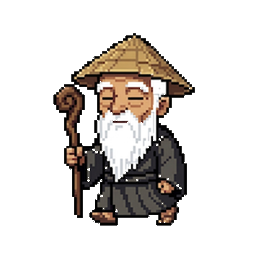
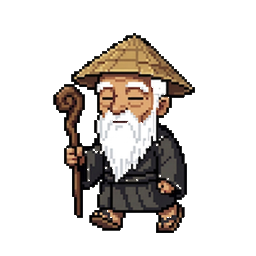
Wall run overhaul: climb sprites, easier trigger, sensei walk fix
- Wall run: new wall-climb1/climb2 sprites (face INTO wall), 350ms climb
  duration, 200ms grace buffer so dash before wall contact still triggers
- 3-phase animation: climb → pushoff → backflip with 360° rotation
- Regenerated wall-cling without baked-in wall texture
- Sensei walk1/walk2 regenerated — now match idle's art style consistently
- Sprite fuzz standardized at 10%

Changed region(s): [[0.3438, 0.6875, 0.75, 0.9375], [0.25, 0.5625, 0.2812, 0.5938], [0.1875, 0.375, 0.2188, 0.4062]]

diff --git a/src/game/renderer.js b/src/game/renderer.js
@@ -1452,8 +1452,9 @@ const CROPS = {
   parry:         { ...F, R: false },
   land_heavy:    { ...F, R: false },
   slash_through: { ...F, R: true },
-  wall_run:      { ...F, R: false },
-  wall_run2:     { ...F, R: false },
+  wall_climb1:   { ...F, R: false },
+  wall_climb2:   { ...F, R: false },
+  wall_pushoff:  { ...F, R: false },
   backflip:      { ...F, R: false },
 };
 
@@ -1525,13 +1526,15 @@ function drawPlayer(ctx, p, mascot, elapsed) {
     }
   }
 
-  // Wall run — alternate between two wall run sprites
+  // Wall run — climb sprites facing INTO the wall
   if (p.state === "wall_run") {
-    const runFrame = (p._wallRunTimer || 0) > 100 ? "wall_run" : "wall_run2";
-    const img = getImage(runFrame) || getImage("wall_cling") || getImage("wallslide");
+    // Alternate climb frames every 100ms for running-up-wall animation
+    const climbFrame = Math.floor((p._wallRunTimer || 0) / 100) % 2 === 0 ? "wall_climb1" : "wall_climb2";
+    const img = getImage(climbFrame) || getImage("wall_cling") || getImage("wallslide");
     if (img) {
-      const crop = CROPS[runFrame] || CROPS.wallslide;
-      const wallFacing = -p.wallDir;
+      const crop = CROPS[climbFrame] || CROPS.wallslide;
+      // Face INTO the wall (not away) — wallDir points toward wall
+      const wallFacing = p.wallDir;
       if (crop.R ? (wallFacing < 0) : (wallFacing > 0)) ctx.scale(-1, 1);
       ctx.drawImage(img, crop.x, crop.y, crop.w, crop.h, -DRAW_W / 2, -DRAW_H + FOOT_NUDGE, DRAW_W, DRAW_H);
       ctx.restore();
@@ -1539,14 +1542,23 @@ function drawPlayer(ctx, p, mascot, elapsed) {
     }
   }
 
-  // Backflip — use dedicated backflip sprite with rotation
+  // Backflip — push-off then spinning flip
   if (p.state === "backflip") {
     const flipProgress = 1 - (p._backflipTimer || 0) / 500; // 0→1
-    const rotation = flipProgress * Math.PI * 2 * p.facing; // full 360 spin
-    ctx.rotate(rotation);
-    const img = getImage("backflip") || getImage("jump2") || getImage("jump1");
-    const cropKey = getImage("backflip") ? "backflip" : "jump2";
-    if (drawSpriteFrame(ctx, img, cropKey, s, p.facing)) { ctx.restore(); return; }
+    if (flipProgress < 0.2) {
+      // Push-off phase — use wall_pushoff sprite, no rotation yet
+      const img = getImage("wall_pushoff") || getImage("jump2") || getImage("jump1");
+      const cropKey = getImage("wall_pushoff") ? "wall_pushoff" : "jump2";
+      if (drawSpriteFrame(ctx, img, cropKey, s, p.facing)) { ctx.restore(); return; }
+    } else {
+      // Flip phase — spinning backflip
+      const spinProgress = (flipProgress - 0.2) / 0.8; // 0→1 within flip phase
+      const rotation = spinProgress * Math.PI * 2 * p.facing;
+      ctx.rotate(rotation);
+      const img = getImage("backflip") || getImage("jump2") || getImage("jump1");
+      const cropKey = getImage("backflip") ? "backflip" : "jump2";
+      if (drawSpriteFrame(ctx, img, cropKey, s, p.facing)) { ctx.restore(); return; }
+    }
   }
 
   if (p.state === "dash") {

diff --git a/src/game/engine.js b/src/game/engine.js
@@ -487,9 +487,13 @@ export function update(g, callbacks) {
   const moveDir = (g.input.left ? -1 : 0) + (g.input.right ? 1 : 0);
 
   // Wall run — press Dash while wall sliding → run up → auto-backflip
-  if (g.input.dashPressed && p.wallSliding && !p._wallRunning && !p._wallRunCooldown) {
+  // Grace buffer: if dash was pressed within 200ms and player is now wall sliding, trigger wall run
+  if (g.input.dashPressed) p._dashPressTime = g.time.elapsed;
+  const dashRecent = (g.time.elapsed - (p._dashPressTime || 0)) < 0.2;
+  if ((g.input.dashPressed || dashRecent) && p.wallSliding && !p._wallRunning && !p._wallRunCooldown) {
     p._wallRunning = true;
     p._wallRunTimer = 0;
+    p._dashPressTime = 0; // consume the grace buffer
     g.input.dashPressed = false; // consume so normal dash doesn't fire
     playSound("wall_grab", { playbackRate: 1.3 });
   }
@@ -1329,9 +1333,10 @@ export function update(g, callbacks) {
   // Wall run cooldown — prevent re-triggering immediately after a backflip
   if (p._wallRunning) {
     p._wallRunTimer += rawDt * 1000;
-    // Short wall run — 200ms burst upward, then auto-backflip
-    if (p._wallRunTimer < 200 && p.wallSliding) {
-      p.vy = -280; // moderate upward speed (not too high)
+    // Wall run — 350ms burst upward, then auto-backflip
+    if (p._wallRunTimer < 350 && p.wallSliding) {
+      p.vy = -260; // steady upward speed
+      p.facing = p.wallDir; // face INTO the wall during climb
       // Wall run particles — footstep dust on wall
       if (Math.random() < dt * 15) {
         g.particles.push({
@@ -1340,7 +1345,7 @@ export function update(g, callbacks) {
           life: 200, maxLife: 200, color: "#aa9977", size: rndInt(1, 3),
         });
       }
-    } else if (p.wallSliding || p._wallRunTimer >= 200) {
+    } else if (p.wallSliding || p._wallRunTimer >= 350) {
       // Auto-backflip — no jump press needed
       p._wallRunning = false;
       p._wallRunCooldown = 500; // prevent immediate re-trigger
@@ -1367,7 +1372,9 @@ export function update(g, callbacks) {
       }
     }
   }
-  if (!p.wallSliding && p._wallRunning) p._wallRunning = false;
+  // Cancel wall run only if lost wall contact AND timer isn't within the run window
+  // (small grace: wall contact can briefly flicker during upward movement)
+  if (!p.wallSliding && p._wallRunning && p._wallRunTimer > 80) p._wallRunning = false;
   // Wall run cooldown decay
   if (p._wallRunCooldown > 0) p._wallRunCooldown -= rawDt * 1000;
   // Backflip slow-mo decay

diff --git a/src/game/sprites.js b/src/game/sprites.js
@@ -70,7 +70,8 @@ const PLAYER_CORE = [
   ps("death1", "/images/tinysenpai/death/hit.png"), ps("death2", "/images/tinysenpai/death/fallen.png"),
   ps("wall_cling", "/images/tinysenpai/wall-cling.png"), ps("parry", "/images/tinysenpai/parry.png"),
   ps("land_heavy", "/images/tinysenpai/land-heavy.png"), ps("slash_through", "/images/tinysenpai/slash-through.png"),
-  ps("wall_run", "/images/tinysenpai/wall-run.png"), ps("wall_run2", "/images/tinysenpai/wall-run2.png"),
+  ps("wall_climb1", "/images/tinysenpai/wall-climb1.png"), ps("wall_climb2", "/images/tinysenpai/wall-climb2.png"),
+  ps("wall_pushoff", "/images/tinysenpai/wall-run2.png"),
   ps("backflip", "/images/tinysenpai/backflip.png"),
 ];
 
